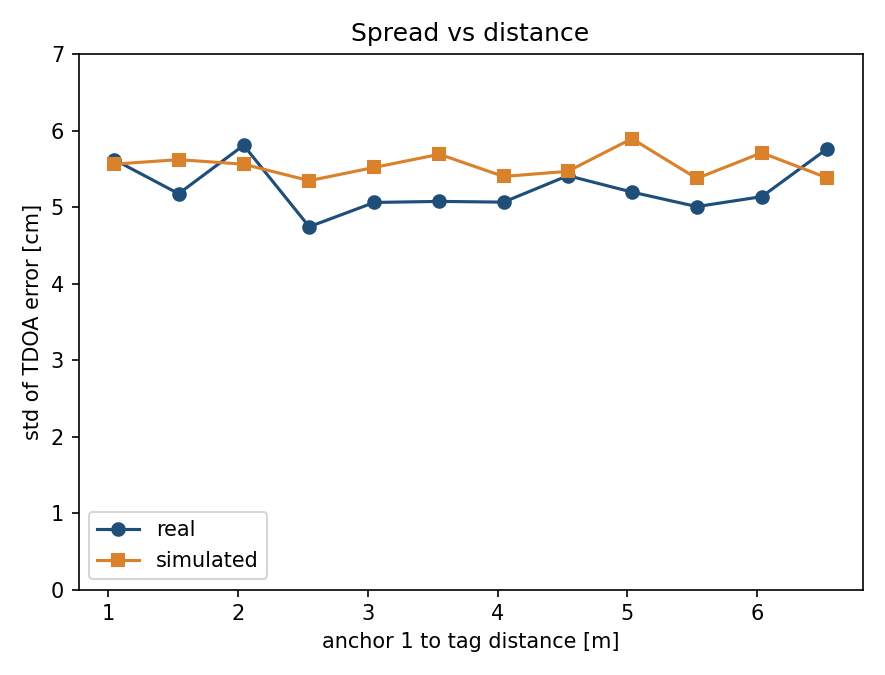
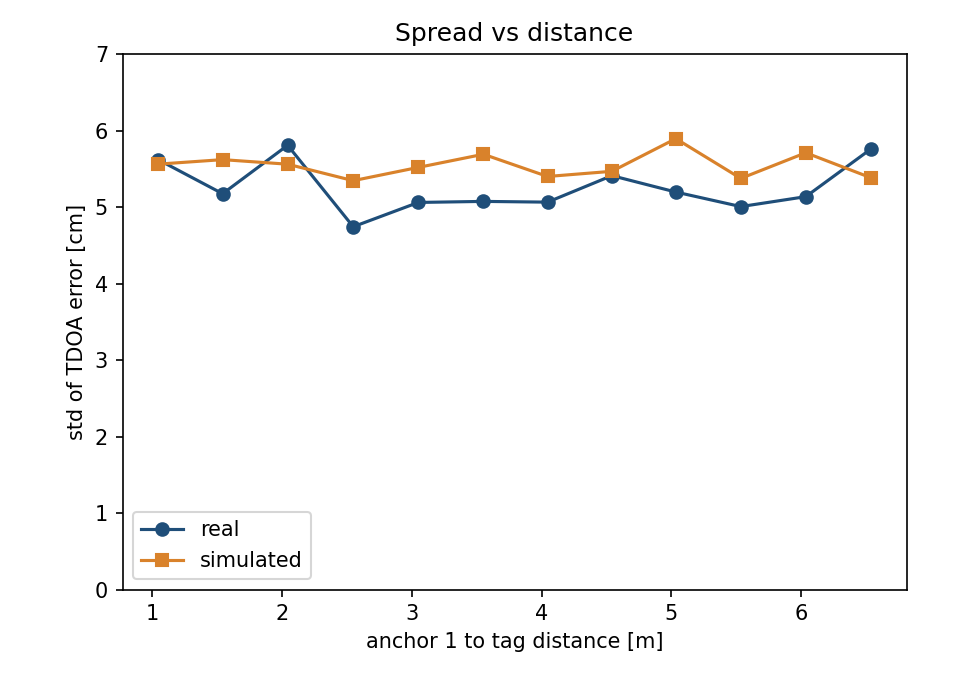
updated results and explanations

diff --git a/docs/measurement_model.md b/docs/measurement_model.md
@@ -61,9 +61,11 @@ s(L) = \frac{1}{1 + e^{-(L - L_c)/w}}
   - **Closing the link:** at $`L_{\max}`$ = `max_link_loss_db` the link is closed, but the S alone would only have reached 0.81 there. Dividing by $`s(L_{\max})`$ stretches it to reach exactly 1, so $`p`$ rises into blackout without a jump. In our preset, p=0.63 at $`L_c`$ (35.5 dB, 60 m) and 0.5 at about 34.9 dB (56 m).
 - With `enable_nlos_dropout: false`, dropout uses $`L_d`$ only (obstacles don't drop measurements); noise still uses the full $`L`$.
 
+Figure 1 shows both curves.
+
 ![Noise standard deviation and dropout probability against the link budget](images/link_budget_curves.png)
 
-The curves use the `eliko_identification` values. In both presets $`L_{\sigma 1}`$ and $`L_{\max}`$ are the same, so $`\sigma`$ reaches $`\sigma_{\max}`$ just as the link closes.
+*Figure 1: Noise standard deviation and dropout probability against the link budget, with the `eliko_identification` values. In both presets $`L_{\sigma 1}`$ and $`L_{\max}`$ are the same, so $`\sigma`$ reaches $`\sigma_{\max}`$ just as the link closes.*
 
 ## Moving outliers
 
@@ -161,6 +163,107 @@ The same wall matters more the farther apart the robots are, since it eats into 
 - The outlier-heavy behaviour UTIL shows behind some plastic and cabinet obstacles (mostly accurate readings with occasional large misses) isn't modelled.
 - The TDOA reference anchor is fixed (lowest id), and clock synchronisation between anchors isn't simulated.
 
+## Calibration
+
+### Eliko preset (`eliko_identification`)
+
+The Eliko preset was measured in LOS at short range (σ ≈ 12 cm, near-zero bias, robots < 10 m apart) and completed with the datasheet's 75 m maximum range and ~50 cm noise near it (see the Robot Meets Ranging workshop paper, Section II-B and Table II). With $`n = 2`$, 15 m and 75 m are 23.5 dB and 37.5 dB, so the defaults reproduce those points exactly, and the link budget sets the shape in between:
+
+| $`d`$ (m) | 5 | 10 | 15 | 30 | 45 | 60 | 70 | > 75 |
+| --- | ---: | ---: | ---: | ---: | ---: | ---: | ---: | ---: |
+| $`\sigma`$ (cm) | 12.0 | 12.0 | 12.0 | 22.2 | 31.8 | 41.0 | 47.0 | -- |
+| $`p`$ | 0.020 | 0.020 | 0.020 | 0.037 | 0.201 | 0.641 | 0.908 | 1 |
+
+$`L_c`$ and $`w`$ are a least-squares fit over 10-70 m to the published calibration's dropout, which rises from 2% at 10 m to 90% at 70 m (rms error 0.04, before the scaling by $`s(L_{\max})`$). The dataset doesn't cover NLOS. In the absence of an Eliko NLOS calibration, the preset uses the same obstacle and material parameters as `util_identification`. Its other parameters stay Eliko's, including no received-power bias and a 12 cm noise floor, so an obstacle's effect differs from UTIL's even with identical material values. Treat Eliko NLOS results as uncalibrated.
+
+### UTIL preset (`util_identification`)
+
+Calibrated and validated against the [UTIL](https://utiasdsl.github.io/util-uwb-dataset/) dataset [Zhao et al.]: static identification recordings first, then flights through the full pipeline (PX4 SITL, Gazebo, ROS 2, offboard control).
+
+| Parameter | Value | Origin |
+| --- | --- | --- |
+| `min_noise_stddev_cm` | 4.0 | UTIL's LOS TDOA spread divided by $`\sqrt 2`$ |
+| `power_bias_cm_per_db` | 0.98 | Fitted on the LOS distance test ($`\pm`$ 0.18 cm/dB) |
+| `bias_min_cm`, `bias_max_cm` | -3.6, 3.6 | Scatter of the distance test's per-setup means |
+| `material_metal_detour_loss_db` | 20 | Assumed; reproduces the static metal shift |
+| `enable_dielectric_delay` | `false` | Over-predicted the static NLOS shifts |
+| `enable_nlos_dropout` | `false` | Metal-blocked pairs keep 78-99 % of the unblocked sample rate in UTIL's flights |
+| `moving_outlier_probability`, `moving_outlier_mean_cm` | 0.05, 25 | Fitted on the flights; checked on held-out flights |
+
+#### Summary
+
+Results compare real and simulated TDOA errors with the Wasserstein-1 distance (W1, in cm; lower is better). *Centred* removes each setup's or anchor pair's own offset, leaving the noise shape.
+
+| Data | W1 raw | W1 centred |
+| --- | ---: | ---: |
+| Static, LOS | 2.2-5.8 | 0.6-1.2 |
+| Static, obstacle on the tag link | 1.3-9.3 | -- |
+| Flight, LOS | 3.07 | 1.75 |
+| Flight, NLOS | 7.89 | 11.38 |
+
+The simulation reproduces noise levels, the received-power bias in LOS, and the size of obstacle effects in static data. Flight data is harder: LOS matches well, while NLOS matches in shape but less well in size.
+
+#### Static data
+
+In LOS, the noise matches at every distance, at about 5-6 cm (Figure 2, left). The simulated means also follow the real drift with distance, from about +8 cm at 1 m to about -6 cm at 6.5 m. Individual setups aren't comparable, because the simulation draws random anchor offsets and the real means jump between neighbouring positions for reasons not established.
+
+<p align="center">
+  <img src="images/static_spread_vs_distance.png" alt="Static LOS spread against distance" width="49%">
+  <img src="images/static_material_shift.png" alt="Static NLOS shift by material" width="49%">
+</p>
+
+*Figure 2: Static data. Left: LOS spread against distance. Right: error shift by material, with the obstacle on the anchor-tag line (anTag).*
+
+With an obstacle on the anchor-tag line (Figure 2, right), the simulation reproduces how much each material shifts the error, relative to LOS (cm):
+
+| Obstacle | Shift, real / sim | W1 |
+| --- | --- | ---: |
+| Cardboard | +0.5 / -1.0 | 2.75 |
+| Foam | -0.4 / 0.0 | 1.33 |
+| Plastic | -3.5 / -7.2 | 4.84 |
+| Wooden cabinet | -9.4 / -13.7 | 9.25 |
+| Wooden shelf | -16.8 / -16.6 | 2.15 |
+| Metal | -35.2 / -34.1 | 6.69 |
+
+- **Heavier obstacles shift the error more**, in reality and in the simulation. Simulated values average 20 seeds, because each run draws its own anchor offsets and a single run can move a point by about 4 cm.
+- **Hollow objects are over-predicted by a few cm.** UTIL only gives each object's outer shape, so the plastic container and the wooden cabinet are simulated as solid boxes, which overstates their loss. Plastic also crosses the NLOS threshold because of this.
+- **Obstacle effects vary with placement more than from sample to sample.** Moving the same metal obstacle changes the real shift by about 15 cm, while the spread at any one placement stays near 7 cm, against 5 cm in LOS. The simulated shift varies less between placements.
+- **An obstacle between the anchors barely matters.** The real error stays within 1 cm of LOS, except for plastic at 3.5 cm. The simulation doesn't model this link.
+
+#### Flight data
+
+Flights reproduce UTIL's paths, not its timing: the UAV covered 89-100 % of each path with a median tracking error of 3-7 cm. Anchors were carried by static robots at their surveyed positions. About 0.7 % of the real samples are corrupted, with errors of up to 120 m, and were excluded. 
+
+**LOS.** The noise shape and the received-power bias both carry over from the static data (Figure 3).
+
+![LOS flights: noise shape and received-power bias](images/flights_los.png)
+
+*Figure 3: LOS flights. The noise-shape panels in Figures 3 and 4 remove each anchor pair's median error. The right panels check the received-power bias: $`L_B - L_A`$ is how much weaker anchor B's signal is than anchor A's from distance alone ($`L = 20 \log_{10} d`$, so obstacles aren't included), and the y axis is the TDOA error. Each pair's mean is removed from both axes, which leaves only the changes as the tag moves. Samples more than 30 cm from the pair's median are excluded, dots are binned averages, and the slope estimates $`k_P`$.*
+
+- **The received-power bias holds:** 0.77 cm/dB real against 0.94 simulated.
+- **Moving tags have outliers that static ones don't.** Errors over 30 cm from the pair's median are almost absent in static data and make up 1-10 % of LOS flight data. The moving outlier term gives a uniform 3 %. It improved W1 from 5.20 to 3.07 cm raw, and by 1.3-2.1 cm on flights not used to fit it.
+- **Some anchors are much noisier than others in flight.** The cause isn't known, and the simulation treats all anchors alike, so its noise is too low for the worst ones.
+- **Per-anchor offsets are larger in flight data:** about 4.5 cm against 2.1 cm simulated. Widening them fits flights better but worsens the static fit, so the static value was kept.
+
+**NLOS.** With one metal and three wooden boxes (Figure 4):
+
+| Link | Robust std, real / sim | Outliers, real / sim |
+| --- | --- | --- |
+| Unblocked | 13.3 / 7.3 cm | 10.4 / 3.0 % |
+| Wood | 12.2 / 6.7 cm | 8.6 / 2.9 % |
+| Metal | 34.7 / 29.3 cm | 41.9 / 27.8 % |
+
+![NLOS flights: noise shape and received-power bias](images/flights_nlos.png)
+
+*Figure 4: NLOS flights. Panels as in Figure 3, with the real data also shown after removing the direction-dependent anchor bias.*
+
+- **Metal is right in sign and most of its scatter, but too large.** A blocked leg reads 28 cm long in reality and 58 cm in the simulation, because simulated noise grows steeply with total loss. Reducing that effect also removed the scatter and worsened the overall fit, so it was rejected.
+- **Obstacles don't stop measurements.** Blocked links keep 78-99 % of their sample rate, as the simulation does.
+- **Wood adds bias but no measurable scatter**, in reality and in the simulation.
+- **A direction-dependent bias hides the received-power bias.** Distance alone gives a slope of 0.04 cm/dB real against 0.98 simulated. Each anchor has a repeatable bias that depends on the direction to the tag, and removing it raises the real slope to 0.61 cm/dB (green in Figure 4; each flight is corrected with a fit on the others, and individual flights range from 0.22 to 0.90). So the received-power bias is still there, including on blocked legs, as the simulation assumes. The direction-dependent bias isn't specific to NLOS: it's also present in the LOS flights, at a similar size. It's less visible there because its effect on the slope varies between anchor installations, and the LOS figure pools several installations, so it mostly averages out, while these flights come from a single one. It isn't a fixed property of the hardware: it changes when the same anchor is reinstalled and when obstacles are added, so it seems to depend on each anchor's mounting and surroundings (UTIL reports pose-related biases for this chip). The simulation doesn't model it, which needs further work, and it accounts for only a small part of the extra noise below (10.9 to 10.2 cm).
+- **Overall noise is about twice the simulation's**, even on unblocked links.
+- **Obstacle positions are approximate.** UTIL didn't survey them, so the simulated metal effect also depends on where they were assumed to be.
+
 ## Parameter reference
 
 | Parameter | Symbol or role | Default |
@@ -199,101 +302,6 @@ The same wall matters more the farther apart the robots are, since it eats into 
 | `random_seed` | noise/bias seed; `0` = fixed default seed | `0` |
 
 The per-material overrides aren't shown in the setup GUI (saving from it would freeze the frequency-derived rates); add them to a preset by hand.
-
-## Calibration
-
-### Eliko preset (`eliko_identification`)
-
-The Eliko preset was measured in LOS at short range (σ ≈ 12 cm, near-zero bias, robots < 10 m apart) and completed with the datasheet's 75 m maximum range and ~50 cm noise near it (see the Robot Meets Ranging workshop paper, Section II-B and Table II). With $`n = 2`$, 15 m and 75 m are 23.5 dB and 37.5 dB, so the defaults reproduce those points exactly, and the link budget sets the shape in between:
-
-| $`d`$ (m) | 5 | 10 | 15 | 30 | 45 | 60 | 70 | > 75 |
-| --- | ---: | ---: | ---: | ---: | ---: | ---: | ---: | ---: |
-| $`\sigma`$ (cm) | 12.0 | 12.0 | 12.0 | 22.2 | 31.8 | 41.0 | 47.0 | -- |
-| $`p`$ | 0.020 | 0.020 | 0.020 | 0.037 | 0.201 | 0.641 | 0.908 | 1 |
-
-$`L_c`$ and $`w`$ are a least-squares fit over 10-70 m to the published calibration's dropout, which rises from 2% at 10 m to 90% at 70 m (rms error 0.04, before the scaling by $`s(L_{\max})`$). The dataset doesn't cover NLOS. In the absence of an Eliko NLOS calibration, the preset uses the same obstacle and material parameters as `util_identification`. Its other parameters stay Eliko's, including no received-power bias and a 12 cm noise floor, so an obstacle's effect differs from UTIL's even with identical material values. Treat Eliko NLOS results as uncalibrated.
-
-### UTIL preset (`util_identification`)
-
-Calibrated and validated against the [UTIL](https://utiasdsl.github.io/util-uwb-dataset/) dataset [Zhao et al.]: static identification recordings first, then flights through the full pipeline (PX4 SITL, Gazebo, ROS 2, offboard control).
-
-| Parameter | Value | Origin |
-| --- | --- | --- |
-| `min_noise_stddev_cm` | 4.0 | UTIL's LOS TDOA spread divided by $`\sqrt 2`$ |
-| `power_bias_cm_per_db` | 0.98 | Fitted on the LOS distance test ($`\pm`$ 0.18 cm/dB) |
-| `bias_min_cm`, `bias_max_cm` | -3.6, 3.6 | Scatter of the distance test's per-setup means |
-| `material_metal_detour_loss_db` | 20 | Assumed; reproduces the static metal shift |
-| `enable_dielectric_delay` | `false` | Over-predicted the static NLOS shifts |
-| `enable_nlos_dropout` | `false` | Metal-blocked pairs keep 78-99 % of the unblocked sample rate in UTIL's flights |
-| `moving_outlier_probability`, `moving_outlier_mean_cm` | 0.05, 25 | Fitted on the flights; checked on held-out flights |
-
-#### Summary
-
-Results compare real and simulated TDOA errors with the Wasserstein-1 distance (W1, in cm; lower is better). *Centred* removes each setup's or anchor pair's own offset, leaving the noise shape.
-
-| Data | W1 raw | W1 centred |
-| --- | ---: | ---: |
-| Static, LOS | 2.2-5.8 | 0.6-1.2 |
-| Static, obstacle on the tag link | 2.1-9.5 | -- |
-| Flight, LOS | 3.07 | 1.75 |
-| Flight, NLOS | 7.89 | 11.38 |
-
-The simulation reproduces noise levels, the received-power bias in LOS, and the size of obstacle effects in static data. Flight data is harder: LOS matches well, while NLOS matches in shape but less well in size.
-
-#### Static data
-
-In LOS, the noise matches at every distance, at about 5-6 cm. The simulated means also follow the real drift with distance, from about +8 cm at 1 m to about -6 cm at 6.5 m. Individual setups aren't comparable, because the simulation draws random anchor offsets and the real means jump between neighbouring positions for reasons not established.
-
-![Static LOS spread against distance](images/static_spread_vs_distance.png)
-
-With an obstacle on the anchor-tag line (*anTag* in the figure), the simulation reproduces how much each material shifts the error, relative to LOS (cm):
-
-| Obstacle | Shift, real / sim | W1 |
-| --- | --- | ---: |
-| Cardboard | +0.5 / -5.2 | 6.12 |
-| Foam | -0.4 / -1.8 | 2.06 |
-| Plastic | -3.5 / -8.5 | 5.42 |
-| Wooden cabinet | -9.4 / -14.6 | 9.46 |
-| Wooden shelf | -16.8 / -16.2 | 3.27 |
-| Metal | -35.2 / -35.3 | 6.88 |
-
-![Static NLOS shift by material](images/static_material_shift.png)
-
-- **Heavier obstacles shift the error more**, in reality and in the simulation. Light materials are over-predicted by a few cm.
-- **Obstacle effects vary with placement more than from sample to sample.** Moving the same metal obstacle changes the real shift by about 15 cm, while the spread at any one placement stays near 7 cm, against 5 cm in LOS. The simulated shift varies less between placements.
-- **An obstacle between the anchors barely matters.** The real error stays within 1 cm of LOS, except for plastic at 3.5 cm. The simulation doesn't model this link.
-
-#### Flight data
-
-Flights reproduce UTIL's paths, not its timing: the UAV covered 89-100 % of each path with a median tracking error of 3-7 cm. Anchors were carried by `static: true` robots at their surveyed positions. About 0.7 % of the real samples are corrupted, with errors of up to 120 m, and were excluded. Repeating flights with the same seed moves W1 by about 0.3 cm.
-
-**LOS.** The noise shape and the received-power bias both carry over from the static data.
-
-![LOS flights: noise shape and received-power bias](images/flights_los.png)
-
-*In both flight figures, the "pair mean" is the median error of an anchor pair; slope points use samples within 30 cm of it.*
-
-- **The received-power bias holds:** 0.77 cm/dB real against 0.94 simulated.
-- **Moving tags have outliers that static ones don't.** Errors over 30 cm from the pair's median are almost absent in static data and make up 1-10 % of LOS flight data. The moving outlier term gives a uniform 3 %. It improved W1 from 5.20 to 3.07 cm raw, and by 1.3-2.1 cm on flights not used to fit it.
-- **Some anchors are much noisier than others in flight.** The cause isn't known, and the simulation treats all anchors alike, so its noise is too low for the worst ones.
-- **Per-anchor offsets are larger in flight data:** about 4.5 cm against 2.1 cm simulated. Widening them fits flights better but worsens the static fit, so the static value was kept.
-
-**NLOS.** With one metal and three wooden boxes:
-
-| Link | Robust std, real / sim | Outliers, real / sim |
-| --- | --- | --- |
-| Unblocked | 13.3 / 7.3 cm | 10.4 / 3.0 % |
-| Wood | 12.2 / 6.7 cm | 8.6 / 2.9 % |
-| Metal | 34.7 / 29.3 cm | 41.9 / 27.8 % |
-
-![NLOS flights with the final calibration](images/flights_nlos.png)
-
-- **Metal is right in sign and most of its scatter, but too large.** A blocked leg reads 28 cm long in reality and 58 cm in the simulation, because simulated noise grows steeply with total loss. Reducing that effect also removed the scatter and worsened the overall fit, so it was rejected.
-- **Obstacles don't stop measurements.** Blocked links keep 78-99 % of their sample rate, as the simulation does.
-- **Wood adds bias but no measurable scatter**, in reality and in the simulation.
-- **The received-power bias disappears in this data:** 0.04 cm/dB real against 0.98 simulated. Blocked legs lose it, because their error no longer follows distance, and the simulation still applies it. Part of the loss also appears without these obstacles, for reasons not known.
-- **Overall noise is about twice the simulation's**, even on unblocked links.
-- **Obstacle positions are approximate.** UTIL didn't survey them, so the simulated metal effect also depends on where they were assumed to be.
 
 ## References
 
